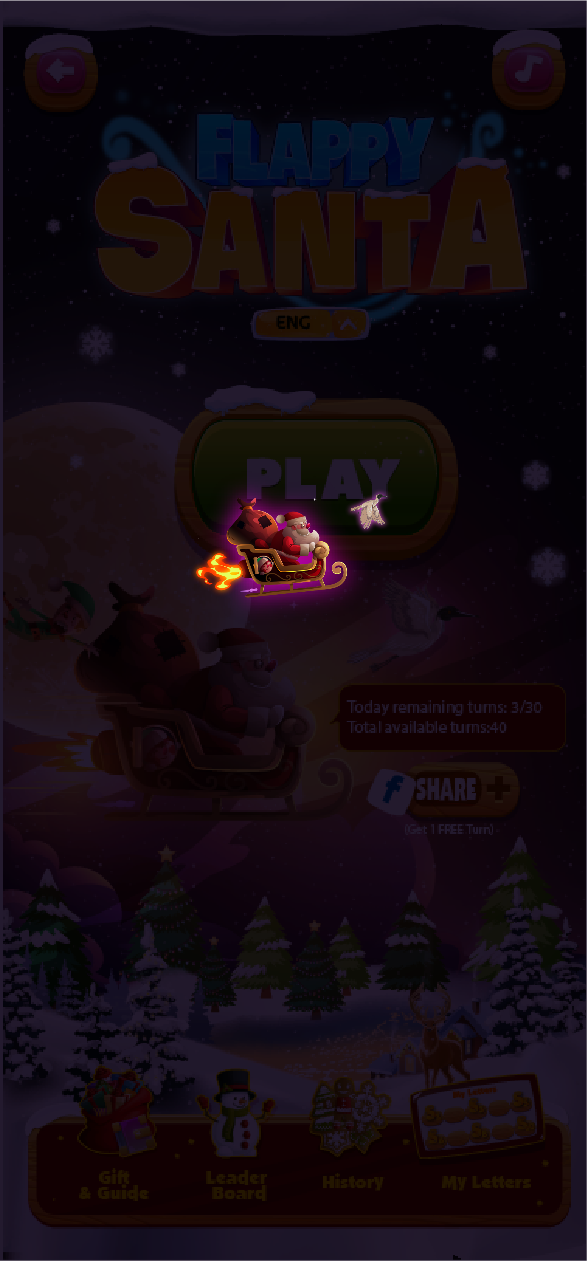
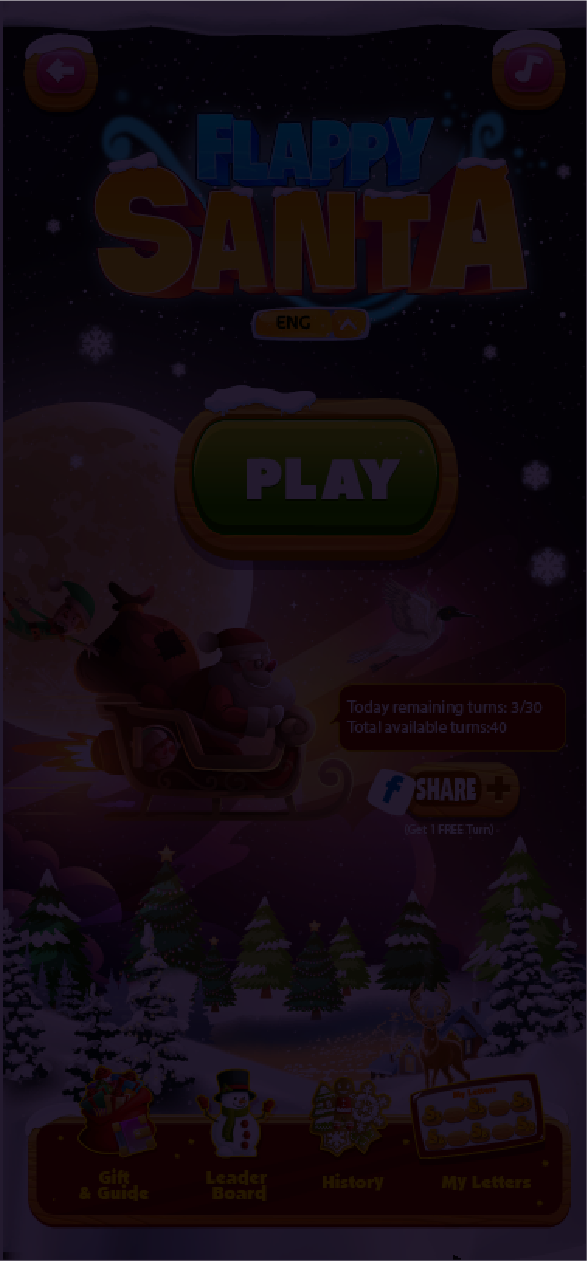
update

Changed region(s): [[0.3373, 0.3711, 0.6746, 0.4948]]

diff --git a/index.html b/index.html
@@ -48,6 +48,7 @@
       <p style="position: relative">Loading...</p>
     </div>
   </div>
+  <canvas id="loading" style="position: absolute; width: 100%; height: 100%;" width="750" height="1334" oncontextmenu="event.preventDefault()"></canvas>
 
 <script src="src/settings.js" charset="utf-8"></script>
 
@@ -84,8 +85,163 @@
       else {
         window.boot();
       }
+
+      var onSceneLaunch = function(){
+        cc.director.off(cc.Director.EVENT_AFTER_SCENE_LAUNCH, onSceneLaunch);
+
+        document.body.removeChild(loadingCanvas);
+        window.cancelAnimationFrame(myRequestAnimId);
+        onSceneLaunch = null;
+        myOffsetX = null;
+        myRequestAnimId = null;
+        loadingCanvas = null;
+        loadingDefines = null;
+      };
+      cc.director.on(cc.Director.EVENT_AFTER_SCENE_LAUNCH, onSceneLaunch);
     });
 })();
+</script>
+<script>
+  var myOffsetX = 0;
+  window.onload = function(){
+    loadingCanvas.width = loadingCanvas.height * (window.innerWidth / window.innerHeight);
+    myOffsetX = (loadingCanvas.width - 750) / 2;
+  };
+
+  var myRequestAnimId;
+  var loadingCanvas = document.getElementById('loading');
+  var loadingDefines = {
+    frameTime: 1/60,
+    imgs: {
+      santa: {dir: 'santa.png', obj: new Image(), loaded: false},
+      bird01: {dir: 'bird/1.png', obj: new Image(), loaded: false},
+      bird02: {dir: 'bird/2.png', obj: new Image(), loaded: false},
+      bird03: {dir: 'bird/3.png', obj: new Image(), loaded: false},
+      bird04: {dir: 'bird/4.png', obj: new Image(), loaded: false},
+      bird05: {dir: 'bird/5.png', obj: new Image(), loaded: false},
+      bird06: {dir: 'bird/6.png', obj: new Image(), loaded: false},
+      bird07: {dir: 'bird/7.png', obj: new Image(), loaded: false},
+      bird08: {dir: 'bird/8.png', obj: new Image(), loaded: false},
+      bird09: {dir: 'bird/9.png', obj: new Image(), loaded: false},
+      bird10: {dir: 'bird/10.png', obj: new Image(), loaded: false},
+      rocket01: {dir: 'rocket/ROCKET_3.png', obj: new Image(), loaded: false},
+      rocket02: {dir: 'rocket/ROCKET_4.png', obj: new Image(), loaded: false},
+      rocket03: {dir: 'rocket/ROCKET_5.png', obj: new Image(), loaded: false},
+    }
+  };
+  
+  (function(){
+    var canvas = loadingCanvas;
+    var ctx = canvas.getContext('2d');
+    var start = Date.now();
+
+    function loadImage(onComplete){
+      var total = 0;
+      var count = 0;
+      var successCount = 0;
+      for (var key in loadingDefines.imgs) {
+        var image = loadingDefines.imgs[key];
+        if(!image.loaded){
+          total++;
+          image.obj.src = 'imgs/' + image.dir;
+          image.obj.onload = function(){
+            count++;
+            successCount++;
+            if(count == total){
+              onComplete(successCount == total);              
+            }
+          };
+
+          image.obj.onerror = function(){
+            count++;
+            if(count == total){
+              onComplete(successCount == total);              
+            }
+          };
+        }
+      }
+    }
+
+    function animateLoading(){
+      var bird = new animation([
+        loadingDefines.imgs.bird01.obj,
+        loadingDefines.imgs.bird02.obj,
+        loadingDefines.imgs.bird03.obj,
+        loadingDefines.imgs.bird04.obj,
+        loadingDefines.imgs.bird05.obj,
+        loadingDefines.imgs.bird06.obj,
+        loadingDefines.imgs.bird07.obj,
+        loadingDefines.imgs.bird08.obj,
+        loadingDefines.imgs.bird09.obj,
+        loadingDefines.imgs.bird10.obj,
+      ], 4, 0.25);
+      var santa = new animation([
+        loadingDefines.imgs.santa.obj,
+      ], 1, 0.5);
+      var rocket = new animation([
+        loadingDefines.imgs.rocket01.obj,
+        loadingDefines.imgs.rocket02.obj,
+        loadingDefines.imgs.rocket03.obj,
+      ], 5, 0.5);
+
+      bird.setPos(canvas.width / 2 + 70, canvas.height / 2 - 250);
+      santa.setPos(canvas.width / 2 - 180, canvas.height / 2 - 250);
+      rocket.setPos(canvas.width / 2 - 190, canvas.height / 2 - 125);
+
+      function loop() {
+        var current = Date.now();
+        var dt = (current - start) / 1000;
+        start = current;
+
+        ctx.clearRect(0, 0, canvas.width, canvas.height);
+
+        bird.update(dt);
+        bird.render(ctx);
+        santa.update(dt);
+        santa.render(ctx);
+        rocket.update(dt);
+        rocket.render(ctx);
+
+        myRequestAnimId = window.requestAnimationFrame(loop);
+      }
+
+      myRequestAnimId = window.requestAnimationFrame(loop);
+    }
+
+    function animation(imgs, eachFrameCount, scale){
+      this.x = 0;
+      this.y = 0;
+      this.rotate = 0;
+      this.frameIndex = 0;
+      this.time = 0;
+      this.timePerFrame = loadingDefines.frameTime * eachFrameCount;
+
+      this.setPos = function(x, y){
+        this.x = x;
+        this.y = y;
+      };
+
+      this.update = function(dt){
+        this.time += dt;
+        if(this.time >= this.timePerFrame){
+          var step = Math.floor(this.time / this.timePerFrame);
+          this.time %= this.timePerFrame;
+          this.frameIndex = (this.frameIndex + step) % imgs.length;
+        }
+      };
+
+      this.render = function(ctx){
+        var img = imgs[this.frameIndex];
+        ctx.drawImage(img, 0, 0, img.width, img.height, this.x + myOffsetX, this.y, img.width * scale, img.height * scale);
+      };
+    }
+
+    loadImage(function(isLoaded){
+      if(isLoaded){
+        animateLoading();
+      }
+    });
+  })();
 </script>
 </body>
 </html>

diff --git a/src/settings.js b/src/settings.js
@@ -1,1 +1,1 @@
-window._CCSettings={platform:"web-mobile",groupList:["default","Game","Bg","Player","Item","Obstacle"],collisionMatrix:[[true],[false,false],[false,false,false],[false,false,false,false,true,true],[false,false,false,true,false],[false,false,false,true,false,false]],hasResourcesBundle:false,hasStartSceneBundle:false,remoteBundles:[],subpackages:[],launchScene:"db://assets/scenes/game.fire",orientation:"",jsList:[],bundleVers:{internal:"45e63",main:"7d799"}};
+window._CCSettings={platform:"web-mobile",groupList:["default","Game","Bg","Player","Item","Obstacle"],collisionMatrix:[[true],[false,false],[false,false,false],[false,false,false,false,true,true],[false,false,false,true,false],[false,false,false,true,false,false]],hasResourcesBundle:false,hasStartSceneBundle:false,remoteBundles:[],subpackages:[],launchScene:"db://assets/scenes/game.fire",orientation:"",jsList:[],bundleVers:{internal:"45e63",main:"a8f41"}};

diff --git a/main.js b/main.js
@@ -118,7 +118,7 @@ window.boot = function () {
 if (window.jsb) {
     var isRuntime = (typeof loadRuntime === 'function');
     if (isRuntime) {
-        require('src/settings.e3fce.js');
+        require('src/settings.0330d.js');
         require('src/cocos2d-runtime.js');
         if (CC_PHYSICS_BUILTIN || CC_PHYSICS_CANNON) {
             require('src/physics.js');
@@ -126,7 +126,7 @@ if (window.jsb) {
         require('jsb-adapter/engine/index.js');
     }
     else {
-        require('src/settings.e3fce.js');
+        require('src/settings.0330d.js');
         require('src/cocos2d-jsb.js');
         if (CC_PHYSICS_BUILTIN || CC_PHYSICS_CANNON) {
             require('src/physics.js');
